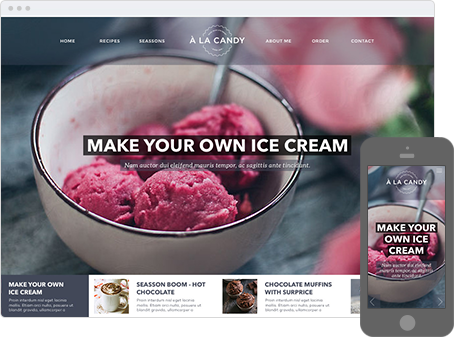
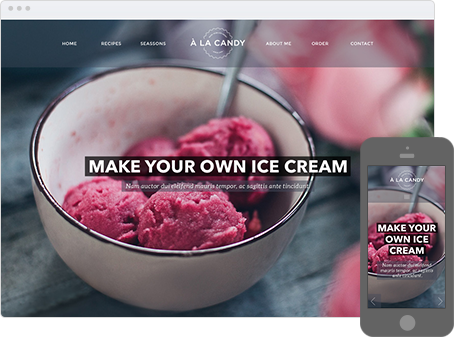
3rd push

diff --git a/stylesheet.less b/stylesheet.less
@@ -525,6 +525,7 @@ hr.line {
    =============================== */
 
 .widget.responsiveslideshow {
+    margin: 20px 0;
     .slideshow-image-list,
     .slideshow-widget {
         min-height: 450px;
@@ -572,14 +573,36 @@ hr.line {
         } */
         /* Play Button */
         .btn-play {
-            background: rgba(0,0,0,0.5);
-            -webkit-border-radius: 4px;
-            -moz-border-radius: 4px;
-            border-radius: 4px;
+            -webkit-border-radius: 50%;
+            -moz-border-radius: 50%;
+            border-radius: 50%;
+            background-color: fade(@color-swatch3, 80%);
+            width: 60px;
+            height: 60px;
+            @media @tablet {
+                width: 50px;
+                height: 50px;
+            }
+            @media @mobile {
+                width: 40px;
+                height: 40px;
+            }
+            &:hover {
+                background-color: @color-swatch3;
+            }
             &:after {
-                color: #fff;
-                letter-spacing: -4px;
-                top: -2px;
+                color: @color-swatch1;
+                font-size: 16px;
+                line-height: 60px;
+                top: 2px;
+                @media @tablet {
+                    line-height: 50px;
+                    font-size: 14px;
+                }
+                @media @mobile {
+                    line-height: 40px;
+                    font-size: 12px;
+                }
             }
         }
     }
@@ -593,6 +616,7 @@ hr.line {
             -moz-border-radius: 50%;
             border-radius: 50%;
             background-color: fade(@color-swatch3, 10%);
+            cursor: pointer;
             &.selected {
                 border: 0;
                 background-color: fade(@color-swatch3, 80%);
@@ -644,28 +668,6 @@ hr.line {
 .widget.responsiveslideshow .description {
     font-size: 13px;
     padding: 5px 10px 10px 10px;
-}
-
-.widget.responsiveslideshow .btn-play:after {
-    font-size: 20px;
-}
-
-.widget.responsiveslideshow .slideshow-widget .btn-play {
-    background: rgba(0,0,0,0.5);
-    font-size: 0;
-    text-indent: -99999px;
-    position: absolute;
-    cursor: pointer;
-    z-index: 12;
-    width: 11%;
-    height: 42px;
-    top: 43%;
-    left: 48%;
-    max-width: 60px;
-}
-
-.widget.responsiveslideshow .slideshow-widget .btn-play:after {
-    top: -10px;
 }
 
 /* ===============================
